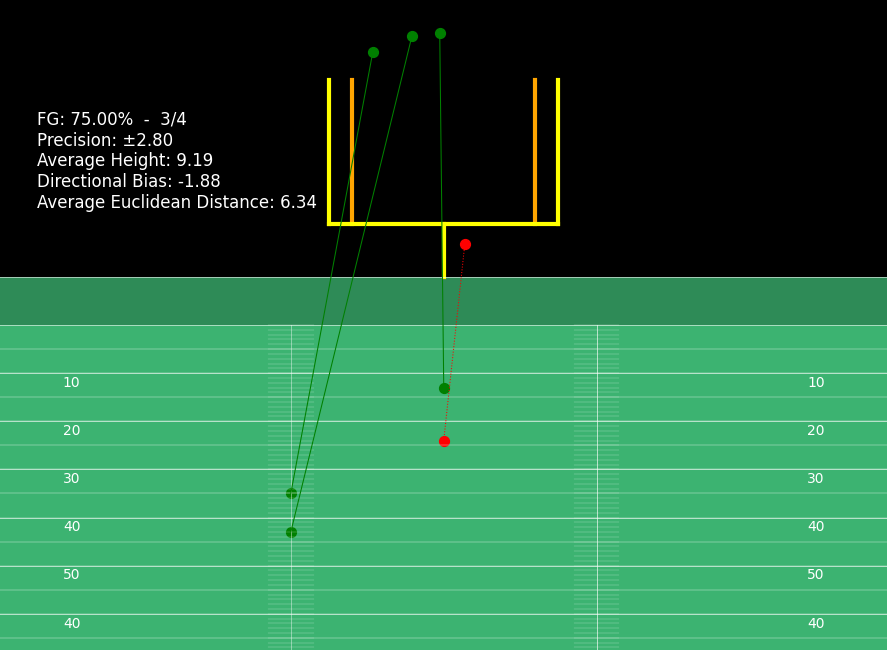
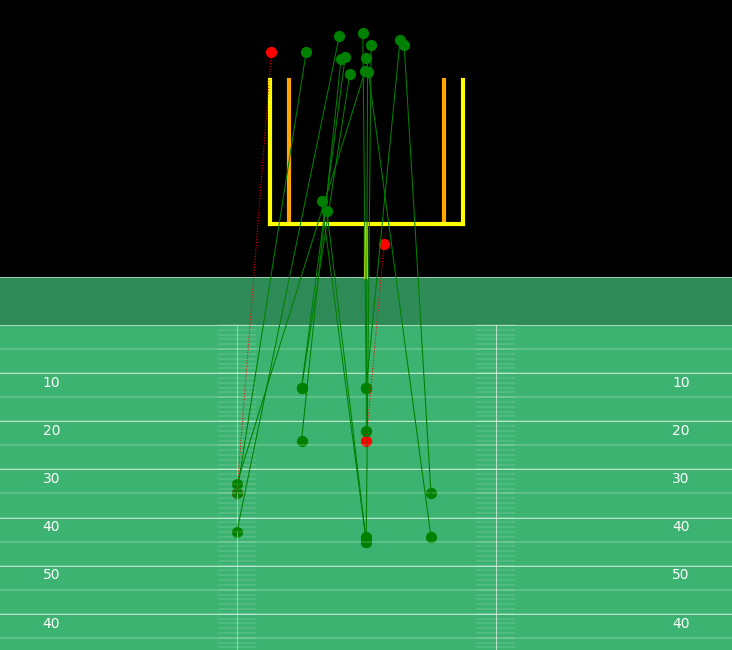
change fig size - final edit pre-meeting

diff --git a/Kicking Code/website/templates/visualize.html b/Kicking Code/website/templates/visualize.html
@@ -648,6 +648,7 @@
       </div>
       <div class="visualization">
         <img id="dynamicImage" src="{{ plot_url }}" alt="Visualization" style="display: none;">
+        <img id="dynamicChart" src="{{ chart_url }}" alt="Chart" style="display: block">
       </div>
     </div>
 <hr>

diff --git a/Kicking Code/website/_visualization.py b/Kicking Code/website/_visualization.py
@@ -457,7 +457,7 @@ def submit_form():
 
         # Plot Generation
 
-        fig, ax = plt.subplots(figsize=(13, 10))
+        fig, ax = plt.subplots(figsize=(11, 10))
         plt.axis('off')
       
         # Field plot
